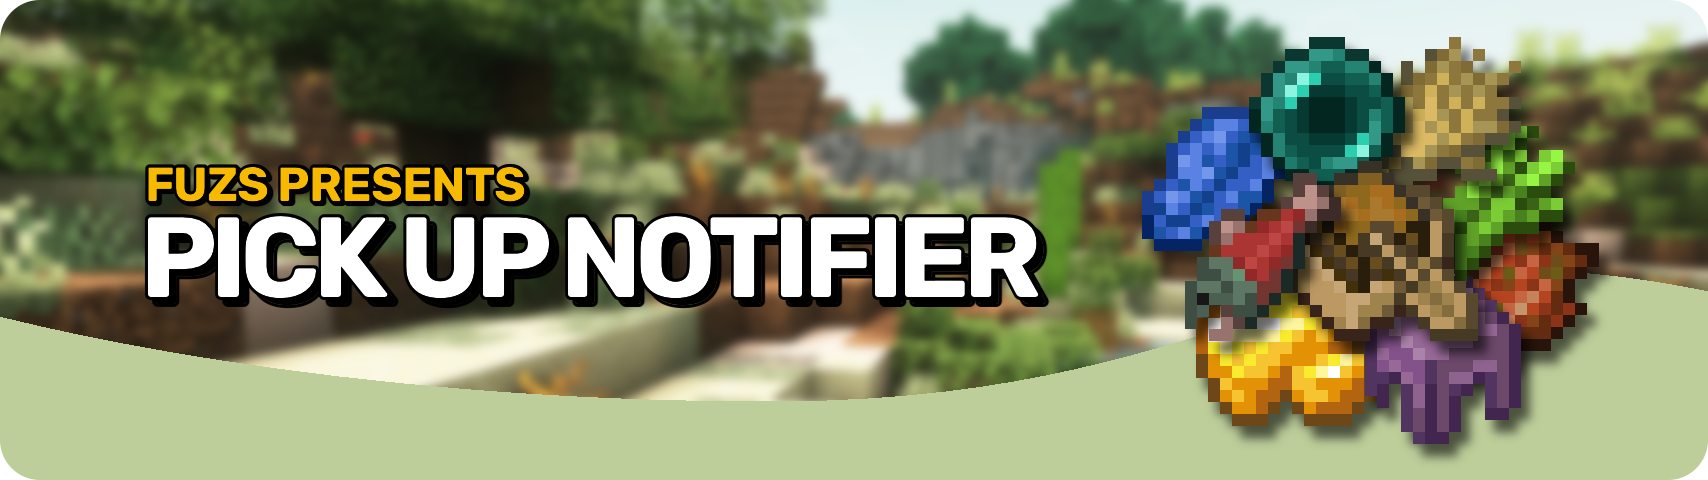
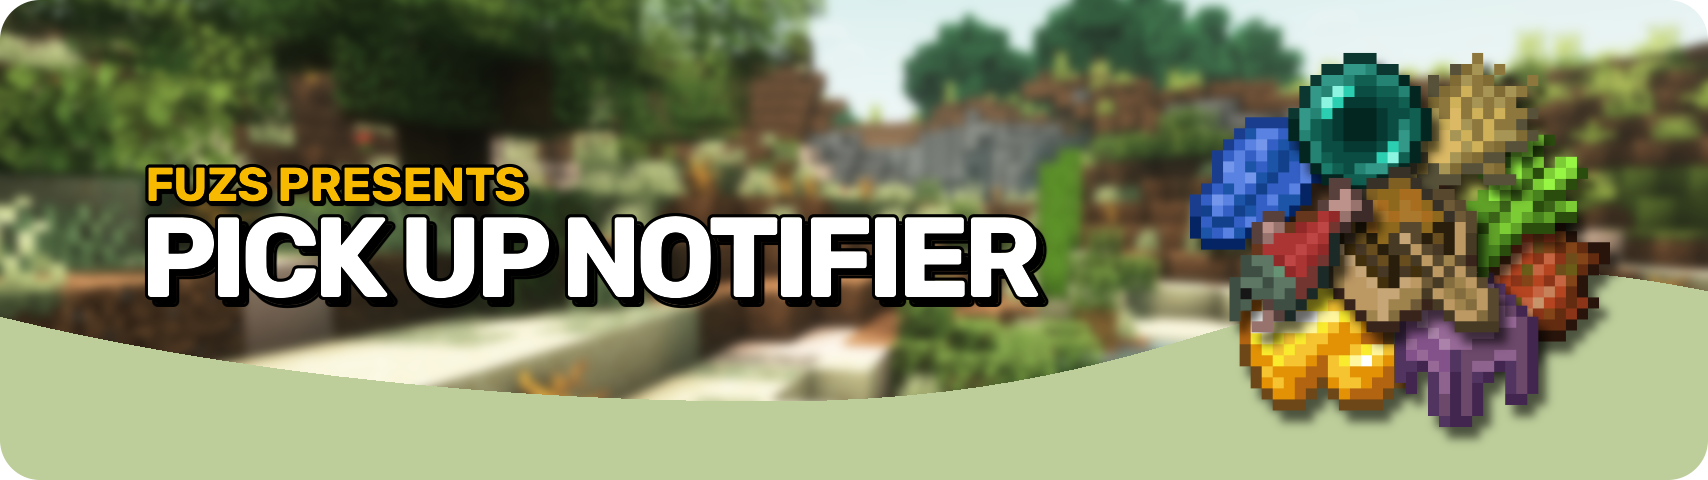
update pick up notifier

Changed region(s): [[0.6516, 0.0625, 0.9619, 0.9688]]

diff --git a/pages/data/pickupnotifier/features.md b/pages/data/pickupnotifier/features.md
@@ -1,7 +1,8 @@
-+ The neat list includes all items, experience and arrows you have just gathered.
-+ Outdated entries slowly move out of the screen and are revived when you collect more of an already present item.
-+ Works with auto-pickup features of most backpack mods: Enabled the `backpack_compatibility` setting in the server config (requires a server-side installation).
-+ Optional installation on servers: Partial item stack pick ups (your inventory does not have enough room to pick up a full item entity from the ground) will now be shown.
-+ Appearance is fully customizable: screen corner, exact position, scale, text style, ...
-+ Also customize the list behavior: how long items stay, how many can be shown, should similar items be merged, ...
-+ Supports blacklisting/whitelisting items via extensive `.json` config files, find out more on [GitHub](https://github.com/Fuzss/pickupnotifier)!
+* 📦 **Track Every Pickup:** See collected items, experience, and recovered arrows in a convenient on-screen list.
+* 🔄 **Smart Entry Updates:** Similar pickups can merge together, while existing entries are refreshed whenever more of the same item is collected.
+* ✨ **Smooth Animations:** Notifications fade away and slide off-screen naturally instead of disappearing abruptly.
+* 🔢 **Detailed Information:** Optionally display pickup counts, item names, inventory totals, and item icons.
+* 🎨 **Fully Customizable Display:** Adjust screen position, scale, colors, backgrounds, spacing, and more.
+* ⏱️ **Configurable Behavior:** Control how long entries remain visible, how many can be shown, and how they are grouped.
+* 🌐 **Client-Side Friendly:** Works in singleplayer, on modded servers, and even on vanilla servers without requiring installation.
+* ⚙️ **Flexible Filtering:** Hide specific items or entire groups of items from the notification list.

diff --git a/pages/data/pickupnotifier/about.md b/pages/data/pickupnotifier/about.md
@@ -1,1 +1,5 @@
-Pick Up Notifier is very simple: Whenever you collect an item from the ground it will be shown in a neat little list in the bottom right corner of your screen, moving away after just a few seconds. Great when collecting resources, adventuring or fighting mobs to get a glance at everything you have collected!
+**Pick Up Notifier** keeps track of everything you collect and displays it in a clean on-screen list, making it easy to see exactly what you've picked up while mining, exploring, farming, or fighting mobs. ✨
+
+Items, experience, and recovered arrows appear as compact notifications that update in real time as more resources are gathered. Entries smoothly fade away after a short time and can automatically combine with similar pickups to keep the display tidy. 📦
+
+The appearance and behavior of the notification list are highly configurable, allowing you to customize its position, scale, styling, animations, display duration, and much more. 🎛️